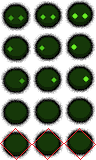
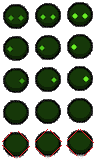
重かった奴が軽くなった

diff --git a/Project1/Project1/class/Scene/GameScene.cpp b/Project1/Project1/class/Scene/GameScene.cpp
@@ -56,29 +56,29 @@ void GameScene::DrawOwnScreen(double delta)
 	Int2 tilesize = tmxobj_->GetTileSize();
 	unsigned int firstgid = tmxobj_->GetFirstGid();
 
-	//for (auto& map : tmxobj_.GetMapData())
-	//{
-	//	int x = 0, y = 0;
-	//	for (auto& data : map.second) {
-	//		int id = data - firstgid;
-	//		if (id >= 0) {
-	//			DrawGraph((x % area.x) * tilesize.x, (y % area.y) * tilesize.y, lpImageMng.GetID("map")[id], true);
-	//		}
-	//		x++;
-	//		if (x % area.x == 0 && x != 0) { y++;}
-	//	}
-	//}
-	
-	for (auto& map : tmxobj_->GetMapData()) {
-		for (int y = 0; y < area.y; y++) {
-			for (int x = 0; x < area.x; x++) {
-				int id = tmxobj_->GetMapData(map.first, x, y) - firstgid;
-				if (id >= 0) {
-					DrawGraph((x % area.x) * tilesize.x, (y % area.y) * tilesize.y, lpImageMng.GetID("map")[id], true);
-				}
+	for (auto& map : tmxobj_->GetMapData())
+	{
+		int x = 0, y = 0;
+		for (auto& data : map.second) {
+			int id = data - firstgid;
+			if (id >= 0) {
+				DrawGraph((x % area.x) * tilesize.x, (y % area.y) * tilesize.y, lpImageMng.GetID("map")[id], true);
 			}
+			x++;
+			if (x % area.x == 0 && x != 0) { y++;}
 		}
 	}
+	
+	//for (auto& map : tmxobj_->GetMapData()) {
+	//	for (int y = 0; y < area.y; y++) {
+	//		for (int x = 0; x < area.x; x++) {
+	//			int id = tmxobj_->GetMapData(map.first, x, y) - firstgid;
+	//			if (id >= 0) {
+	//				DrawGraph((x % area.x) * tilesize.x, (y % area.y) * tilesize.y, lpImageMng.GetID("map")[id], true);
+	//			}
+	//		}
+	//	}
+	//}
 	for (auto& obj : objlist_) {
 		obj->Draw();
 	}

diff --git a/Project1/Project1/class/Obj/Player.cpp b/Project1/Project1/class/Obj/Player.cpp
@@ -226,12 +226,12 @@ void Player::Draw(void)
 {
 	Float2 check(colpos_);
 	anim_->Draw(pos_,size_,mag_);
-	for (auto list : colvec_) {
-		for (auto pos : colvec_[list.first]) {
-			check = colpos_ + pos;
-			DrawCircle(check.x,check.y,2,0xffffff,true);
-		}
-	}
+	//for (auto list : colvec_) {
+	//	for (auto pos : colvec_[list.first]) {
+	//		check = colpos_ + pos;
+	//		DrawCircle(check.x,check.y,2,0xffffff,true);
+	//	}
+	//}
 	//DrawCircle(colpos_.x,colpos_.y,2,0xffffff,true);
 	//Object::Draw();
 	//DrawGraph(pos_.x, pos_.y,animMap_[state_][animframe_].first, true);

diff --git a/Project1/Project1/class/input/KeyInput.cpp b/Project1/Project1/class/input/KeyInput.cpp
@@ -48,9 +48,9 @@ void KeyInput::Update(void)
 	for (auto&& id : InputID()) {
 		if (cntData_[id][static_cast<int>(Trg::Now)]) {
 			(*histroy_)[histroycount_++] = id;
-			//if ((*histroy_)[histroycount_] != InputID::Max) {
-			//	int i = 0;
-			//}
+			if ((*histroy_)[histroycount_] != InputID::Max) {
+				int i = 0;
+			}
 		}
 	}
 }

diff --git a/Project1/Project1/class/Scene/SceneMng.cpp b/Project1/Project1/class/Scene/SceneMng.cpp
@@ -30,7 +30,7 @@ void SceneMng::Run(void)
 		SetDrawScreen(DX_SCREEN_BACK);
 		ClsDrawScreen();
 		scene_->Draw(delta);
-
+		DrawFormatString(0, 0, 0xffff00,"%f",GetFPS());
 		ScreenFlip();
 	}
 }
